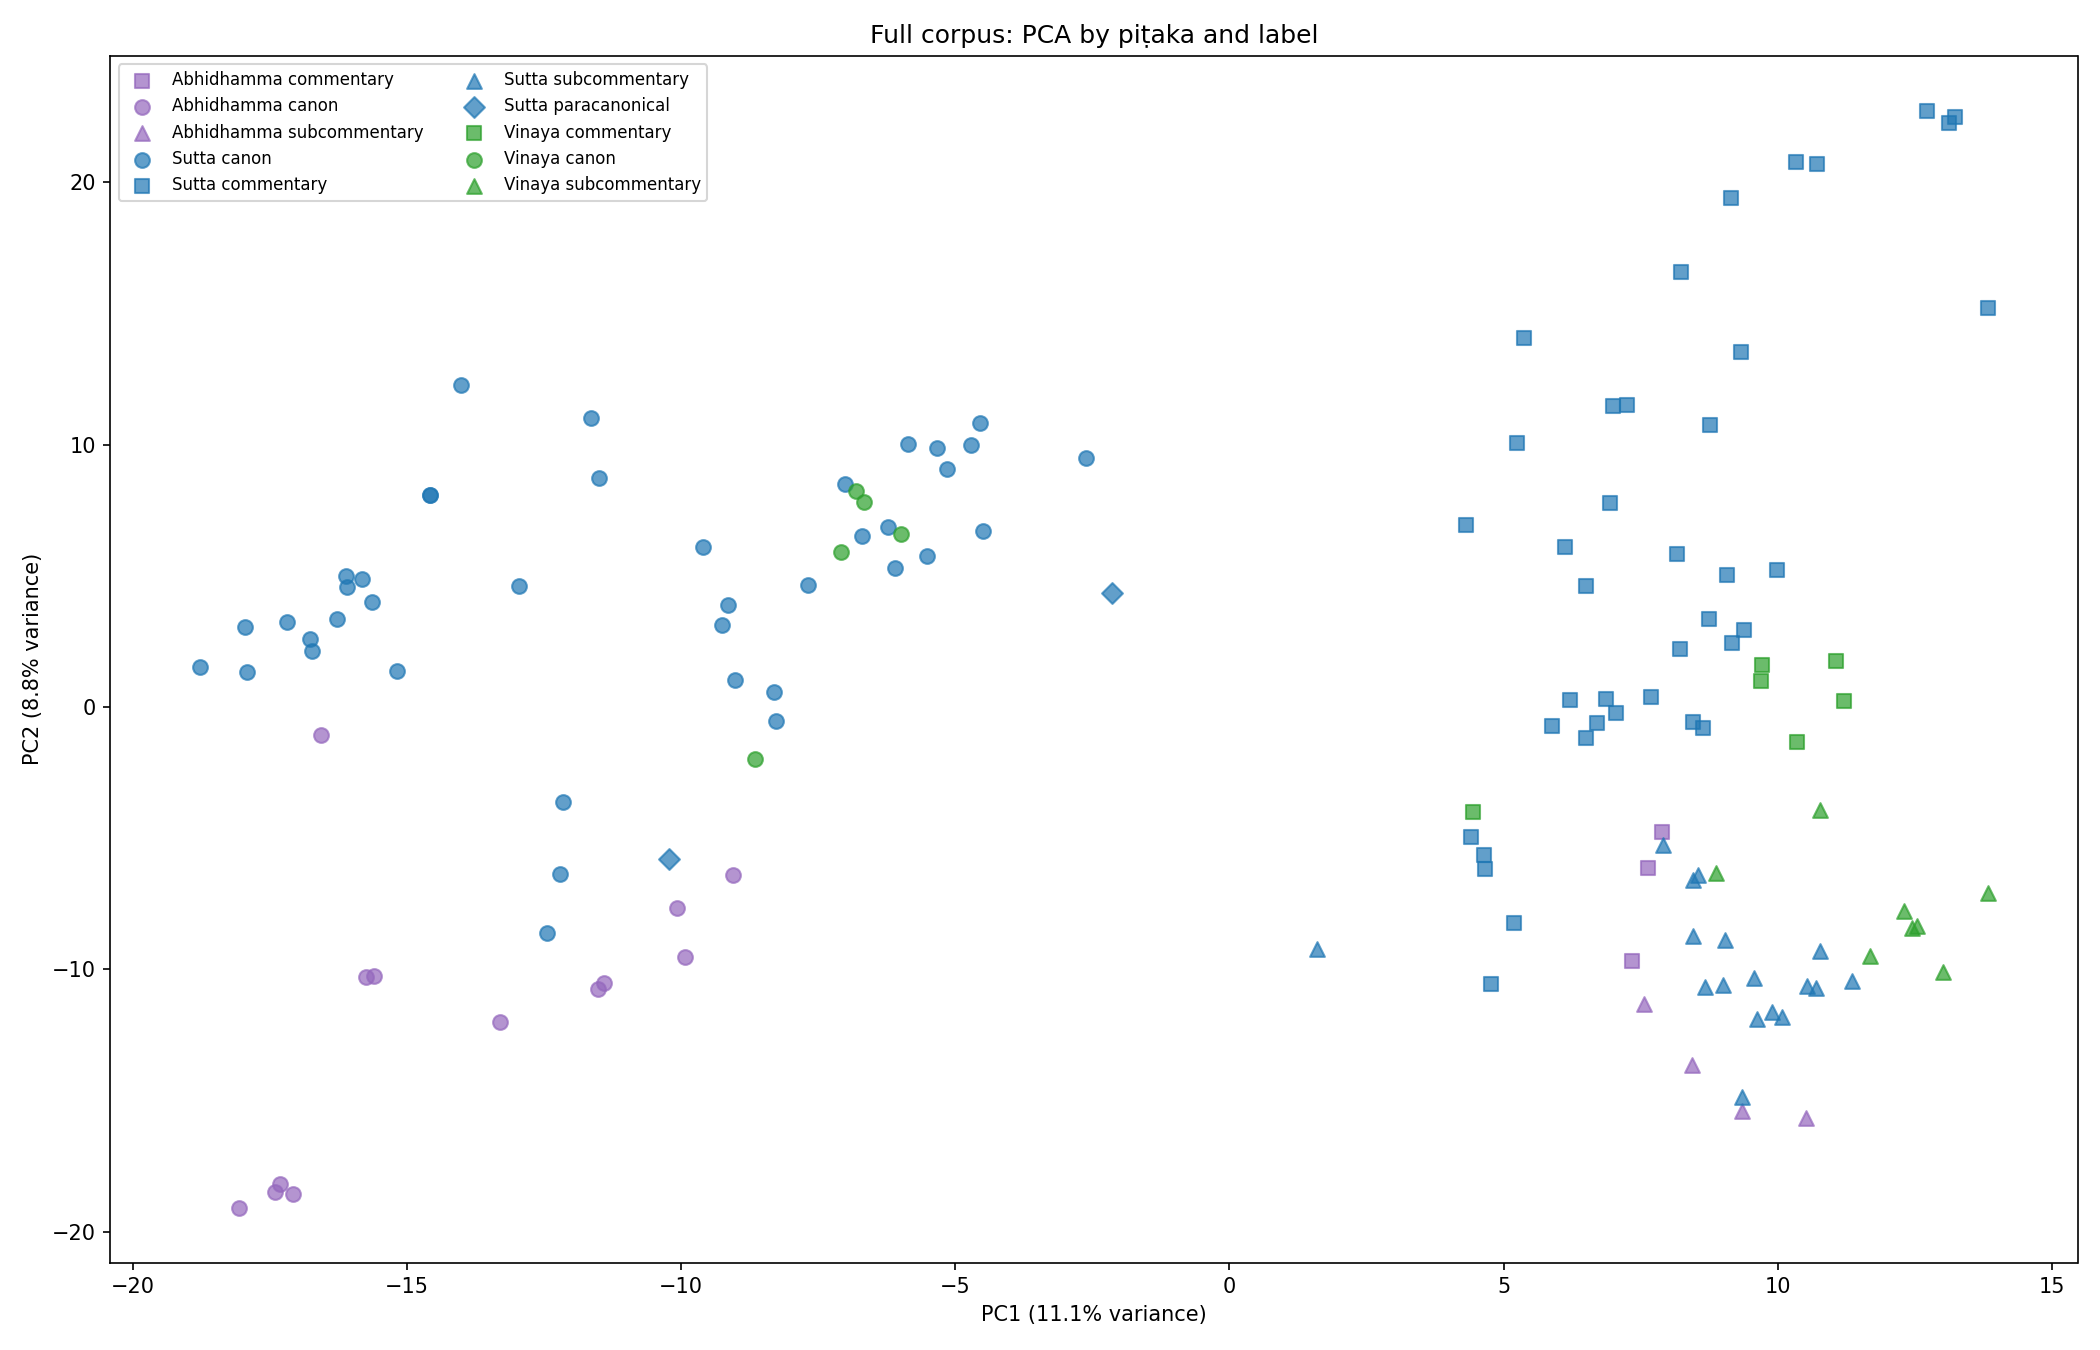
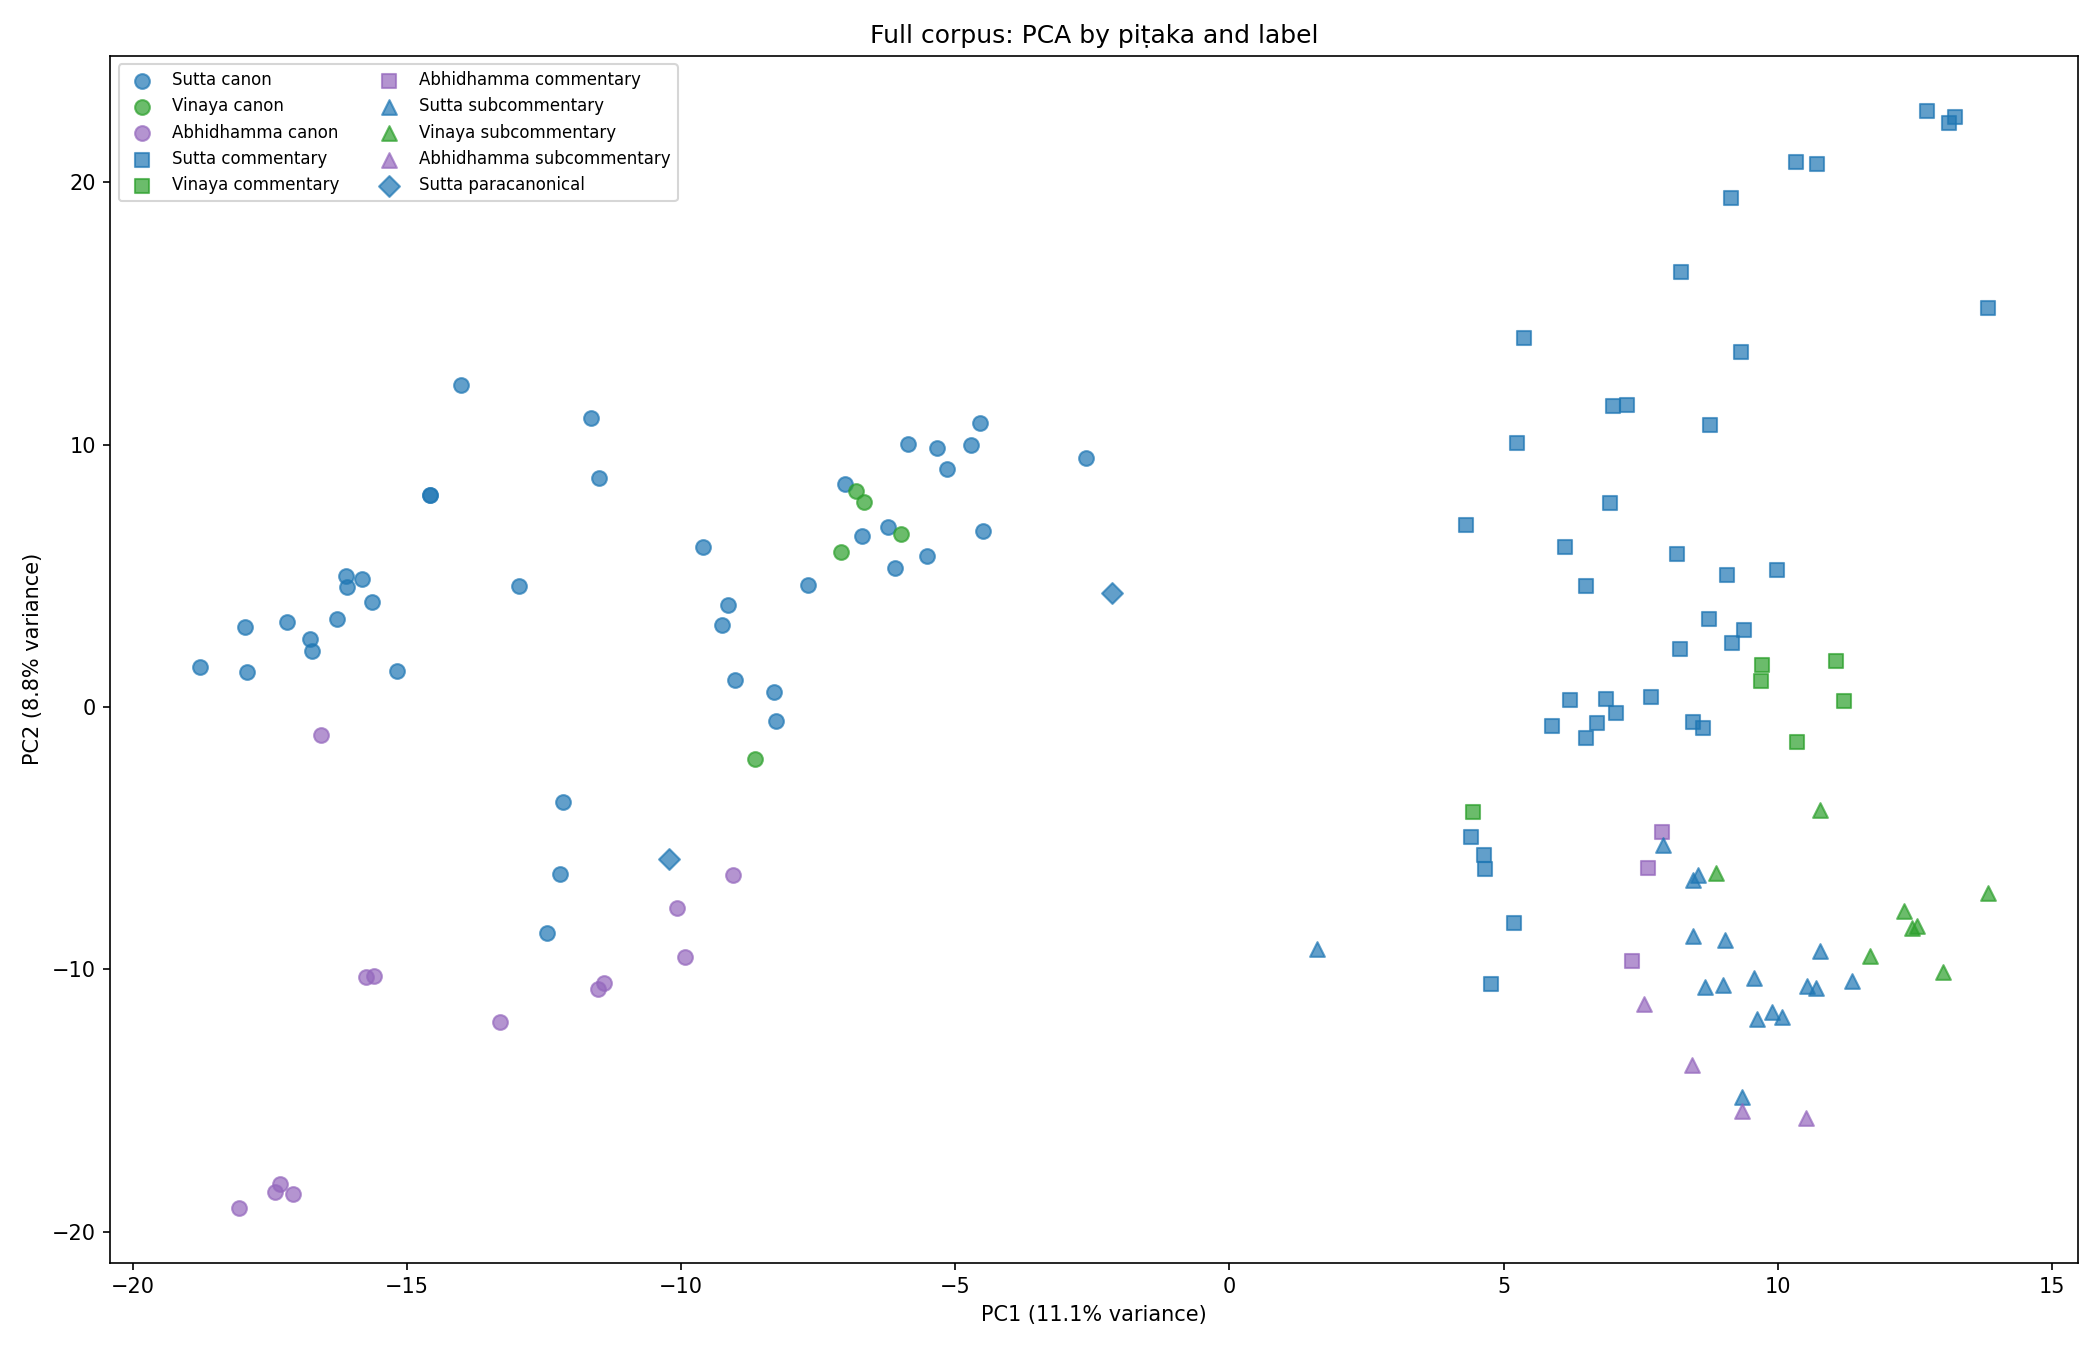
Code review: fix bugs, remove dead code, add tests
- Fix Document.name for multi-part file IDs (s0402m1 -> s0402)
- Fix include_labels=[] edge case (use `is not None` check)
- Fix binary_label in exp_full_clustering (paracanonical = non-canon)
- Fix tokenisation regex mismatch in exp_full_clustering
- Remove double k-means fitting, unused imports, deprecated cmap
- Refactor plot 3 legend to group by label/pitaka combinations
- Change vri_replaced from list to set in build_full_corpus
- Add pitaka filter to LABELS.csv generation
- Remove redundant Counter import in vri_inventory
- Remove dead offset2 variable in reorganise_pts
- Fix stale test assertion (D I not DN vol.1)
- Add 4 tests for Document.name edge cases (68 total, all pass)
- Update FINDINGS.md to reflect corrected 98.5% accuracy

Changed region(s): [[0.0619, 0.0311, 0.3405, 0.1556]]

diff --git a/experiments/exp_full_clustering.py b/experiments/exp_full_clustering.py
@@ -11,7 +11,6 @@ Also runs PCA for visualisation.
 
 import csv
 import re
-import sys
 from collections import Counter
 from pathlib import Path
 
@@ -22,15 +21,15 @@ import numpy as np
 from sklearn.cluster import KMeans
 from sklearn.decomposition import PCA
 from sklearn.preprocessing import StandardScaler
-from sklearn.metrics import adjusted_rand_score, confusion_matrix
+from sklearn.metrics import adjusted_rand_score
 
 # Paths
 DATA_DIR = Path(__file__).resolve().parent.parent / "data" / "raw-full"
 LABELS_CSV = DATA_DIR / "LABELS.csv"
 RESULTS_DIR = Path(__file__).resolve().parent.parent / "results-full"
 
-# Pāli tokenisation (same as data_loader.py)
-PALI_TOKEN_RE = re.compile(r"[^a-zA-Zāīūñṇṭḍṅḷṃṁ]+")
+# Pāli tokenisation (matches data_loader.py)
+PALI_TOKEN_RE = re.compile(r'[^a-zA-ZāīūṭḍṇṅñṃḷĀĪŪṬḌṆṄÑṂḶ]+')
 
 
 def tokenize(text: str) -> list[str]:
@@ -95,14 +94,20 @@ def build_feature_matrix(documents, n_features=1000):
 
 
 def binary_label(label):
-    """Convert to binary canon/non-canon."""
-    return "canon" if label in ("canon", "paracanonical") else "non-canon"
+    """Convert to binary canon/non-canon.
+
+    Paracanonical texts are treated as non-canon for ground truth,
+    consistent with data_loader.binary_labels(). Their classification
+    as canonical by the clustering is then a finding, not an assumption.
+    """
+    return "canon" if label == "canon" else "non-canon"
 
 
 def run_kmeans(X, k, random_state=42):
-    """Run k-means and return cluster assignments."""
+    """Run k-means and return (cluster_assignments, inertia)."""
     km = KMeans(n_clusters=k, n_init=20, random_state=random_state)
-    return km.fit_predict(X)
+    clusters = km.fit_predict(X)
+    return clusters, km.inertia_
 
 
 def evaluate_k2_vs_binary(clusters, labels):
@@ -156,14 +161,12 @@ def main():
     print("\nRunning k-means clustering...")
     results = {}
     for k in range(2, 7):
-        clusters = run_kmeans(X_scaled, k)
-        inertia = KMeans(n_clusters=k, n_init=20, random_state=42).fit(X_scaled).inertia_
+        clusters, inertia = run_kmeans(X_scaled, k)
 
         if k == 2:
             accuracy = evaluate_k2_vs_binary(clusters, labels)
             print(f"  k={k}: accuracy vs canon/non-canon = {accuracy:.1%}")
         else:
-            # Compare with ARI against binary labels
             binary_numeric = [0 if binary_label(l) == "canon" else 1 for l in labels]
             ari = adjusted_rand_score(binary_numeric, clusters)
             print(f"  k={k}: ARI vs binary = {ari:.3f}, inertia = {inertia:.1f}")
@@ -233,16 +236,16 @@ def main():
         "vinaya": "tab:green",
         "abhidhamma": "tab:purple",
     }
-    plotted_combos = set()
-    for i, (label, pitaka) in enumerate(zip(labels, pitakas)):
-        marker = label_markers.get(label, "x")
-        color = pitaka_colors.get(pitaka, "gray")
-        combo = (label, pitaka)
-        show_label = combo not in plotted_combos
-        plotted_combos.add(combo)
-        ax.scatter(X_pca[i, 0], X_pca[i, 1],
-                   c=color, marker=marker, s=50, alpha=0.7,
-                   label=f"{pitaka.title()} {label}" if show_label else None)
+    for label, marker in label_markers.items():
+        for pitaka, color in pitaka_colors.items():
+            mask = [(l == label and p == pitaka)
+                    for l, p in zip(labels, pitakas)]
+            if not any(mask):
+                continue
+            idx = [i for i, m in enumerate(mask) if m]
+            ax.scatter(X_pca[idx, 0], X_pca[idx, 1],
+                       c=color, marker=marker, s=50, alpha=0.7,
+                       label=f"{pitaka.title()} {label}")
     ax.set_xlabel(f"PC1 ({var_explained[0]:.1%} variance)")
     ax.set_ylabel(f"PC2 ({var_explained[1]:.1%} variance)")
     ax.set_title("Full corpus: PCA by piṭaka and label")
@@ -265,7 +268,7 @@ def main():
     ax.set_title("Elbow plot")
 
     # Cluster plots for k=2..6
-    cmap = plt.cm.get_cmap("tab10")
+    cmap = plt.colormaps["tab10"]
     for idx, k in enumerate(range(2, 7)):
         ax = axes[(idx + 1) // 3, (idx + 1) % 3]
         clusters = results[k]["clusters"]

diff --git a/tests/test_data_loader.py b/tests/test_data_loader.py
@@ -9,7 +9,7 @@ sys.path.insert(0, str(Path(__file__).parent.parent / "src"))
 
 from data_loader import (
     parse_filename, tokenize_pali, binary_labels, load_raw_documents,
-    VRI_NAMES, RAW_DATA_DIR,
+    VRI_NAMES, PTS_NAMES, RAW_DATA_DIR, Document,
 )
 
 
@@ -73,10 +73,33 @@ class TestDocumentName:
     def test_name_property(self, sample_documents):
         doc = sample_documents[0]
         assert 's0101m' in doc.name
-        assert 'DN vol.1' in doc.name
+        assert 'D I' in doc.name
 
     def test_short_id(self, sample_documents):
         assert sample_documents[0].short_id == 's0101m'
+
+    def test_multipart_file_id(self):
+        """Multi-part IDs like s0402m1 should resolve to base code s0402."""
+        doc = Document(file_id='s0402m1', filename='s0402m1.mul.txt',
+                       label='canon', suffix='mul')
+        assert 'AN Dukanipāta' in doc.name
+
+    def test_multipart_file_id_m2(self):
+        doc = Document(file_id='s0402m2', filename='s0402m2.mul.txt',
+                       label='canon', suffix='mul')
+        assert 'AN Dukanipāta' in doc.name
+
+    def test_pts_name_takes_priority(self):
+        """PTS-reorganised IDs (e.g., 'an1') should use PTS_NAMES."""
+        doc = Document(file_id='an1', filename='an1.mul.txt',
+                       label='canon', suffix='mul')
+        assert 'A I' in doc.name
+
+    def test_unknown_base_falls_back(self):
+        """Unknown file IDs should fall back to displaying the base code."""
+        doc = Document(file_id='s9999m', filename='s9999m.mul.txt',
+                       label='canon', suffix='mul')
+        assert 's9999' in doc.name
 
 
 class TestLoadRawDocuments:

diff --git a/src/build_full_corpus.py b/src/build_full_corpus.py
@@ -103,14 +103,14 @@ def main():
 
     # Remove VRI files that were replaced by PTS versions
     # (AN nipāta files, original Jātaka/Paṭis/Apadāna files)
-    vri_replaced = [
+    vri_replaced = {
         "s0401m.mul.txt", "s0402m1.mul.txt", "s0402m2.mul.txt", "s0402m3.mul.txt",
         "s0403m1.mul.txt", "s0403m2.mul.txt", "s0403m3.mul.txt",
         "s0404m1.mul.txt", "s0404m2.mul.txt", "s0404m3.mul.txt", "s0404m4.mul.txt",
         "s0513m.mul.txt", "s0514m.mul.txt",
         "s0517m.mul.txt",
         "s0510m1.mul.txt", "s0510m2.mul.txt",
-    ]
+    }
     removed = 0
     for fname in vri_replaced:
         p = DST_DIR / fname
@@ -140,6 +140,8 @@ def main():
         writer = csv.writer(f)
         writer.writerow(["filename", "label", "pitaka", "text_name"])
         for row in rows:
+            if row["pitaka"] not in INCLUDED_PITAKAS:
+                continue
             if row["correct_label"] not in INCLUDED_LABELS:
                 continue
             fname = row["vri_file"]

diff --git a/src/data_loader.py b/src/data_loader.py
@@ -124,8 +124,8 @@ class Document:
         # Check PTS names first (for reorganised files like 'an1', 'ja3')
         if self.file_id in PTS_NAMES:
             return f"{self.file_id} ({PTS_NAMES[self.file_id]})"
-        # Then check VRI names (strip the letter suffix: m/a/t)
-        base = self.file_id[:-1]
+        # Strip trailing letter suffix and optional digit (e.g., 's0402m1' -> 's0402')
+        base = re.sub(r'[mat]\d*$', '', self.file_id)
         name = VRI_NAMES.get(base, base)
         return f"{self.file_id} ({name})"
 
@@ -184,7 +184,7 @@ def load_raw_documents(data_dir: Optional[Path] = None,
     for filepath in sorted(data_dir.glob('*.txt')):
         file_id, suffix, label = parse_filename(filepath.name)
 
-        if include_labels and label not in include_labels:
+        if include_labels is not None and label not in include_labels:
             continue
 
         text = filepath.read_text(encoding='utf-8')

diff --git a/src/vri_inventory.py b/src/vri_inventory.py
@@ -6,8 +6,8 @@ piṭaka membership, genre, and PTS volume correspondence.
 """
 
 import csv
-from pathlib import Path
 from collections import Counter
+from pathlib import Path
 
 VRI_RAW_DIR = Path.home() / "pali-canon" / "data" / "vri-raw"
 OUTPUT_CSV = Path(__file__).resolve().parent.parent / "data" / "vri_inventory.csv"
@@ -374,7 +374,6 @@ def main():
             print(f"  {m}")
 
     # Summary statistics
-    from collections import Counter
     labels = Counter(r["correct_label"] for r in rows)
     pitakas = Counter(r["pitaka"] for r in rows)
     mislabelled_count = sum(1 for r in rows if r["mislabelled"])

diff --git a/src/reorganise_pts.py b/src/reorganise_pts.py
@@ -112,7 +112,6 @@ def split_jataka(src_dir: Path) -> dict[str, str]:
 
     # Combined line list for stories that span both files
     combined = lines1 + lines2
-    offset2 = len(lines1)  # line offset for file 2 content
 
     volumes = {}
     vol_names = ['ja1.mul.txt', 'ja2.mul.txt', 'ja3.mul.txt',

diff --git a/results-full/FINDINGS.md b/results-full/FINDINGS.md
@@ -27,12 +27,15 @@ z-scored before clustering and PCA.
 
 ## Results
 
-### k=2: Perfect canon/non-canon separation (100%)
+### k=2: Near-perfect canon/non-canon separation (98.5%)
 
-The binary register distinction identified in the Sutta Piṭaka paper extends
-perfectly to the entire Tipiṭaka. All 60 canonical and paracanonical texts
-cluster together; all 77 commentary and sub-commentary texts cluster together.
-Not a single Vinaya or Abhidhamma text is misclassified.
+The binary register distinction identified in the Sutta Piṭaka paper extends to
+the entire Tipiṭaka. All 58 canonical texts cluster together with the 2
+paracanonical texts (Milindapañha and Peṭakopadesa); all 77 commentary and
+sub-commentary texts cluster together. Not a single Vinaya or Abhidhamma text is
+misclassified. The only "errors" are the two paracanonical texts clustering with
+canon, consistent with the Sutta-only experiments. If paracanonical texts are
+treated as canonical (their status in the Burmese tradition), accuracy is 100%.
 
 This confirms that the discourse register and exegetical register are not
 artefacts of the Sutta Piṭaka alone but pervade the entire Pāli literary
